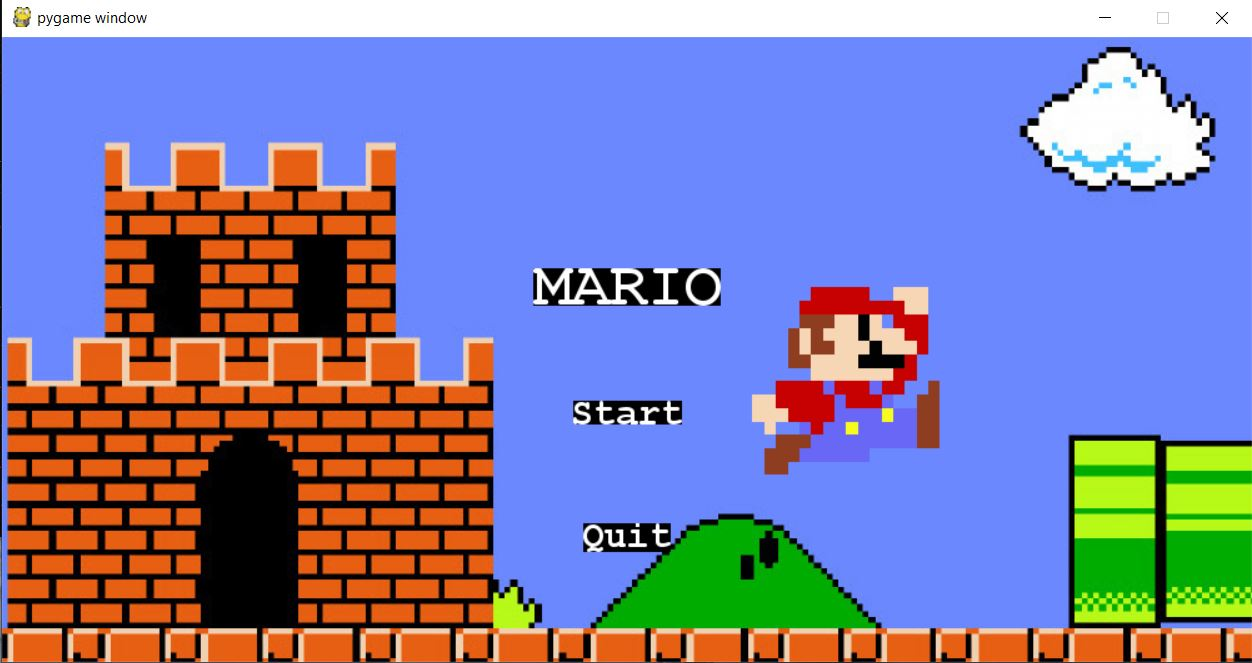
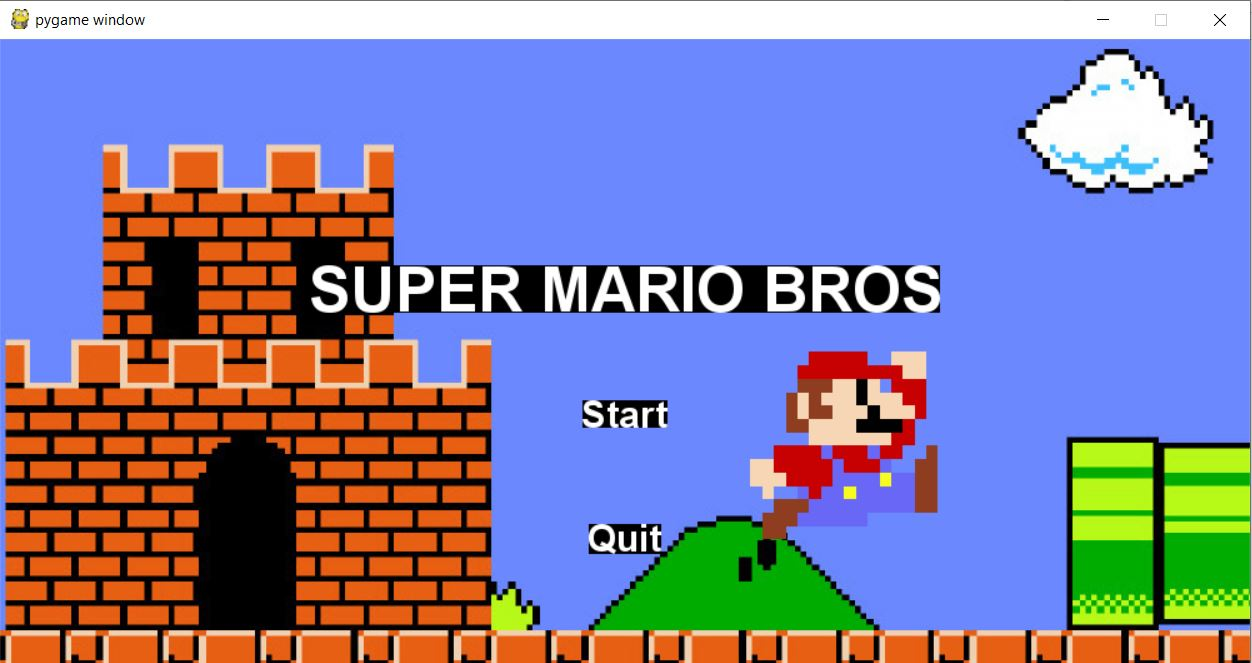
now done

Changed region(s): [[0.0, 0.0, 1.0, 1.0], [0.4361, 0.6033, 0.5607, 0.6637]]

diff --git a/lab3ui.py b/lab3ui.py
@@ -141,7 +141,7 @@ class Raycaster(object):
 #function used by my UIElement to set characteristics of my titles and font           
 def create_surface_with_text(text, font_size, text_rgb, bg_rgb):
     """ Returns surface with text written on """
-    font = pygame.freetype.SysFont("Courier", font_size, bold=True)
+    font = pygame.freetype.SysFont("Arial", font_size, bold=True)
     surface, _ = font.render(text=text, fgcolor=text_rgb, bgcolor=bg_rgb)
     return surface.convert_alpha()
 
@@ -228,7 +228,7 @@ def title_screen(screen):
         font_size=50,
         bg_rgb=BLACK,
         text_rgb=WHITE,
-        text="MARIO",
+        text="SUPER MARIO BROS",
     )
     #start button
     start_btn = UIElement(
@@ -258,7 +258,7 @@ def title_screen(screen):
                 mouse_up = True
         #imagen for main screen
         screen.blit(background, (-600,-550))
-        screen.blit(mario, (600,200))
+        screen.blit(mario, (600,250))
 
         
         for button in buttons:
